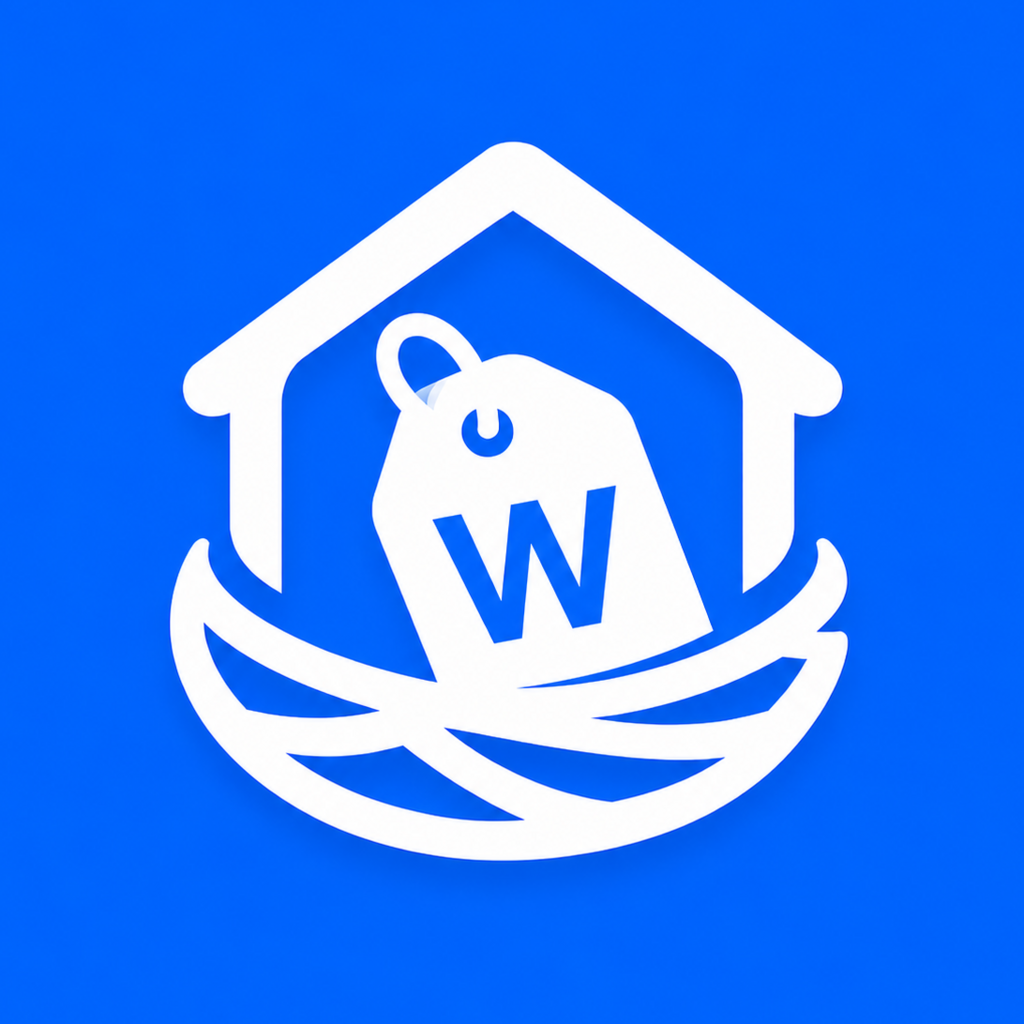
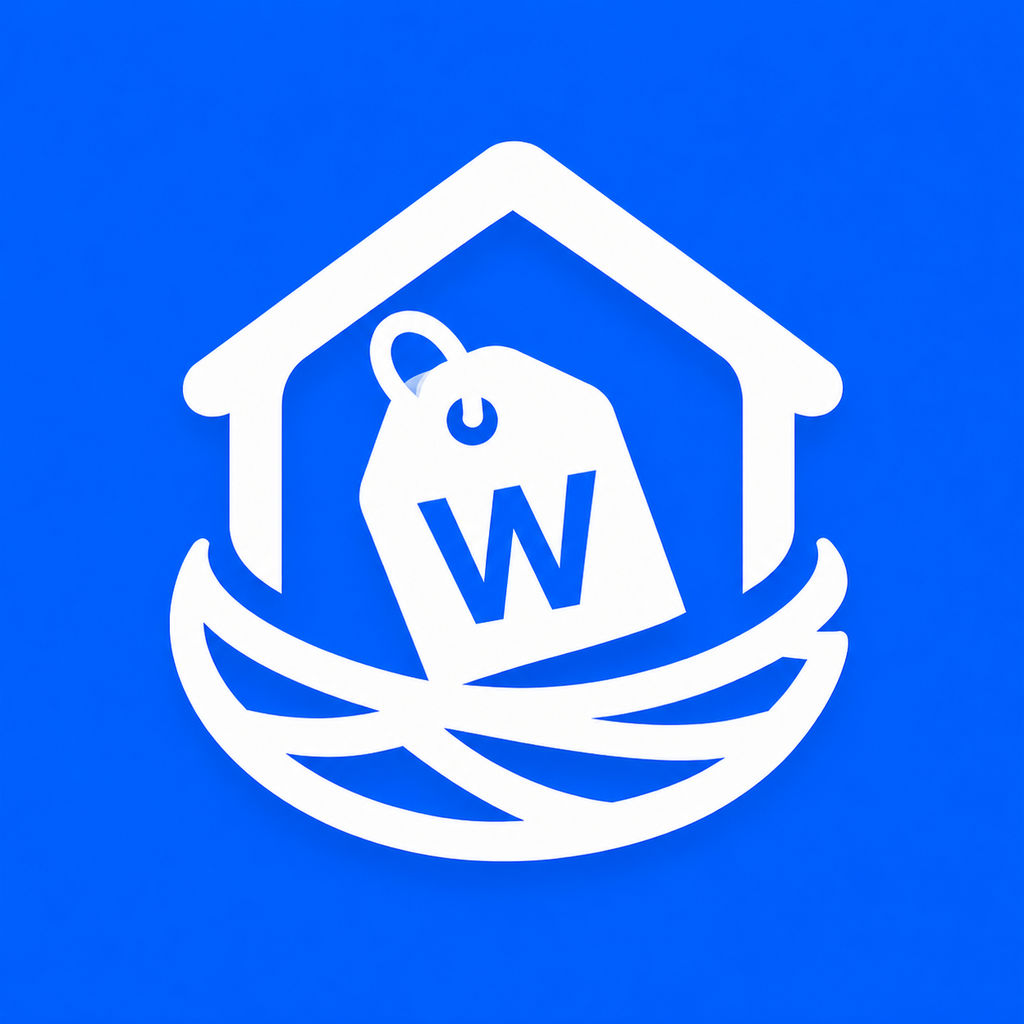
feat: アイコン刷新 + 入力欄のキーボード隠れ修正
- アプリアイコン/スプラッシュをicon02デザインに差し替え(家+タグW+巣)
- FormScrollViewのbottomOffsetを24→100に拡大し、保管場所など
  下部の入力欄がキーボードで隠れないよう追従余白を確保
- add/sale/editのbottomOffset個別指定を削除しデフォルトに統一

Changed region(s): [[0.3438, 0.2812, 0.7188, 0.6875], [0.4688, 0.7812, 0.5, 0.8125], [0.4062, 0.625, 0.4375, 0.6562]]

diff --git a/src/app/add.tsx b/src/app/add.tsx
@@ -59,7 +59,6 @@ export default function AddScreen() {
       <FormScrollView
         showsVerticalScrollIndicator={false}
         keyboardShouldPersistTaps="handled"
-        bottomOffset={24}
         contentContainerStyle={{ paddingBottom: insets.bottom + 24 }}
       >
         <ProductForm key={formKey} ref={formRef} onRequestPro={() => router.push('/paywall')} />

diff --git a/src/app/sale.tsx b/src/app/sale.tsx
@@ -61,7 +61,6 @@ export default function SaleScreen() {
       <FormScrollView
         showsVerticalScrollIndicator={false}
         keyboardShouldPersistTaps="handled"
-        bottomOffset={24}
         contentContainerStyle={{ padding: 16, paddingBottom: insets.bottom + 24 }}
       >
         <Text style={styles.caption}>{t('sale.caption', { name: vm.name })}</Text>

diff --git a/src/components/FormScrollView.tsx b/src/components/FormScrollView.tsx
@@ -5,7 +5,7 @@ import { isExpoGo } from '@/utils/env';
 
 type Props = ScrollViewProps & { bottomOffset?: number };
 
-export function FormScrollView({ bottomOffset = 24, ...props }: Props) {
+export function FormScrollView({ bottomOffset = 100, ...props }: Props) {
   if (isExpoGo) {
     return <ScrollView {...props} />;
   }

diff --git a/src/app/item/[id]/edit.tsx b/src/app/item/[id]/edit.tsx
@@ -45,7 +45,6 @@ export default function EditScreen() {
       <FormScrollView
         showsVerticalScrollIndicator={false}
         keyboardShouldPersistTaps="handled"
-        bottomOffset={24}
         contentContainerStyle={{ paddingBottom: insets.bottom + 24 }}
       >
         <ProductForm
